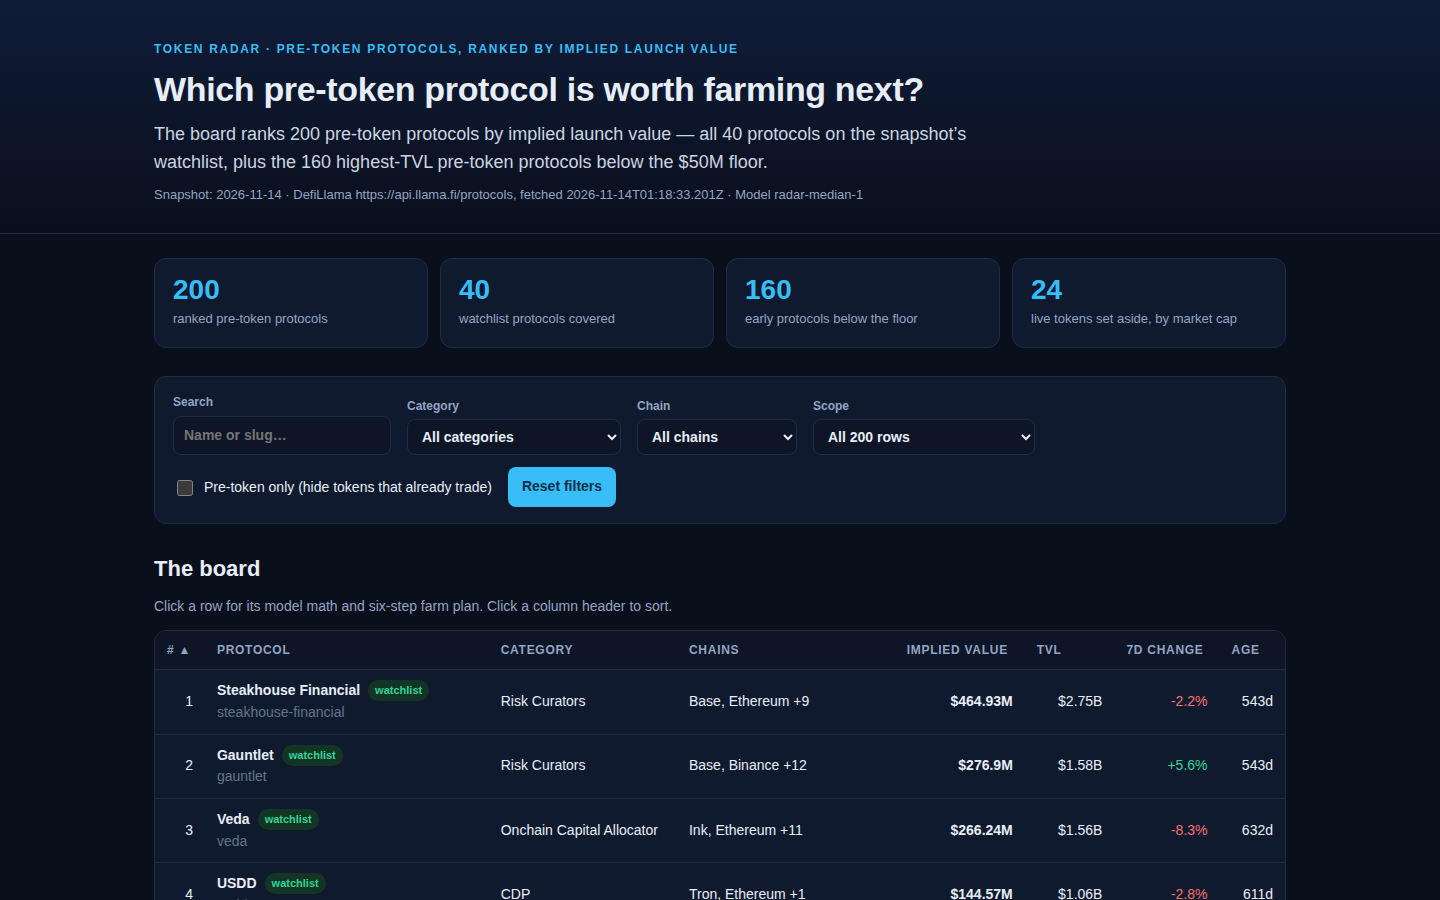
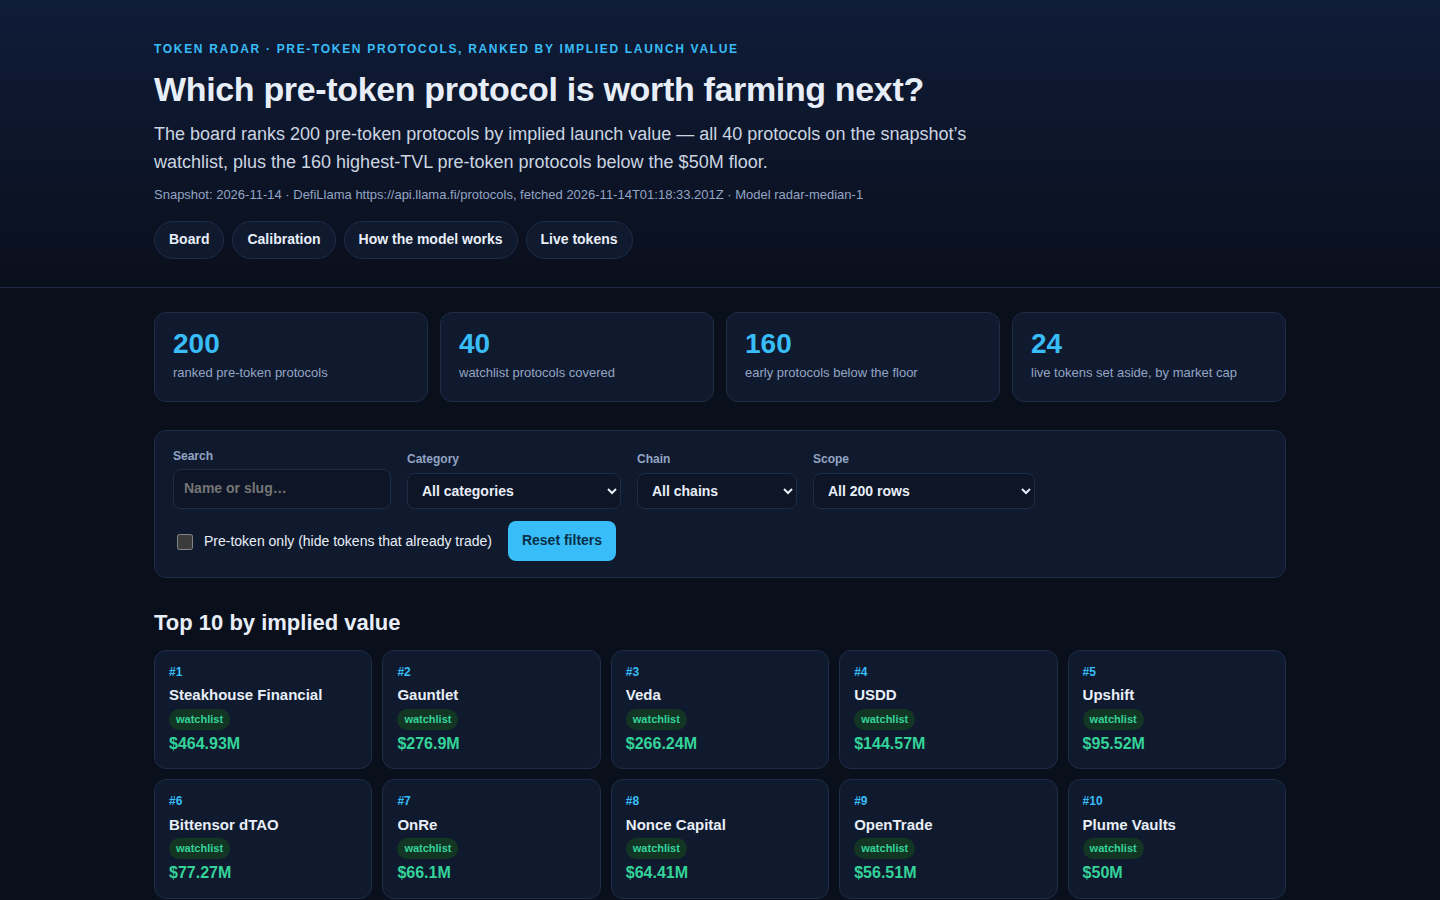
v2: calibration view, 8-step farm plans, Top 10 summary

diff --git a/lib/model.ts b/lib/model.ts
@@ -84,6 +84,29 @@ export interface CategoryMultiple {
   fallback: boolean;
 }
 
+/** One live-token protocol behind a multiple: its own mcap/TVL, shown rounded to 4 decimals. */
+export interface CalibrationComp {
+  slug: string;
+  name: string;
+  mcap_usd: number;
+  tvl_usd: number;
+  ratio: number;
+}
+
+/**
+ * One category's calibration: every live-token comp the category's multiple comes from, the
+ * multiple itself, and whether the category fell back to the global median (fewer than 3 comps).
+ * The global entry (category null) carries no comp list — its 128 comps are the ones listed under
+ * their own categories above it — only its count and its median.
+ */
+export interface CategoryCalibration {
+  category: string | null;
+  multiple: number;
+  comps: number;
+  fallback: boolean;
+  entries: CalibrationComp[];
+}
+
 /** One row of board.json: a ranked pre-token protocol with its farm plan. */
 export interface BoardRow {
   rank: number;
@@ -134,6 +157,7 @@ export interface RadarData {
   early_size: number;
   live_size: number;
   multiples: CategoryMultiple[];
+  calibration: CategoryCalibration[];
   rows: BoardRow[];
   live: LiveRow[];
 }
@@ -208,6 +232,45 @@ function multipleFor(category: string | null, multiples: { byCategory: Map<strin
   const hit = multiples.byCategory.get(category ?? '');
   if (hit !== undefined) return hit;
   return { category, multiple: multiples.global.multiple, comps: multiples.global.comps, fallback: true };
+}
+
+/**
+ * The calibration table: for every category that carries at least one live-token protocol, the
+ * comps themselves (each comp's own mcap/TVL, highest first, ties by slug), the median multiple
+ * the model uses for that category, and whether the category fell back to the global median.
+ * Categories sort by name, the global entry comes last with an empty comp list — its comps are the
+ * ones listed under their own categories. Ratios are shown rounded to 4 decimals; each median is
+ * computed from the unrounded ratios, then rounded to 4 decimals.
+ */
+export function calibrationRows(snapshot: Snapshot, model: ModelConstants = MODEL): CategoryCalibration[] {
+  const multiples = categoryMultiples(snapshot, model);
+  const byKey = new Map<string, CalibrationComp[]>();
+  for (const p of snapshot.protocols) {
+    if (p.mcap_usd === null || p.mcap_usd <= 0 || p.tvl_usd <= 0) continue;
+    const key = p.category ?? '';
+    const list = byKey.get(key) ?? [];
+    list.push({ slug: p.slug, name: p.name, mcap_usd: p.mcap_usd, tvl_usd: p.tvl_usd, ratio: round4(p.mcap_usd / p.tvl_usd) });
+    byKey.set(key, list);
+  }
+  const rows: CategoryCalibration[] = [];
+  for (const [key, entries] of byKey) {
+    entries.sort((a, b) => b.ratio - a.ratio || (a.slug < b.slug ? -1 : a.slug > b.slug ? 1 : 0));
+    const hit = multiples.byCategory.get(key);
+    rows.push({
+      category: key === '' ? null : key,
+      multiple: hit !== undefined ? hit.multiple : multiples.global.multiple,
+      comps: entries.length,
+      fallback: hit === undefined,
+      entries,
+    });
+  }
+  rows.sort((a, b) => {
+    const ka = a.category ?? '';
+    const kb = b.category ?? '';
+    return ka < kb ? -1 : ka > kb ? 1 : 0;
+  });
+  rows.push({ category: null, multiple: multiples.global.multiple, comps: multiples.global.comps, fallback: false, entries: [] });
+  return rows;
 }
 
 /** The implied value and its breakdown for one protocol. */
@@ -313,10 +376,56 @@ function actionFor(p: SnapshotProtocol, capital: number, chain: string): string 
   return `Deposit $${capital} of USDC into ${name} on ${chain} and keep the position open so it counts as usage.`;
 }
 
+/** The category's main risk, in words a farmer can act on: what can go wrong before depositing. */
+function riskFor(p: SnapshotProtocol): string {
+  const c = (p.category ?? '').toLowerCase();
+  if (c.includes('lend') || c.includes('cdp') || c.includes('collateral')) {
+    return `a price drop can liquidate the collateral, and borrow rates can spike while you hold. Keep the loan-to-value well below the limit and check the health factor every week.`;
+  }
+  if (c.includes('dex') || c.includes('yield') || c.includes('leveraged farm') || c.includes('liquidity manager')) {
+    return `impermanent loss can eat the fees you earn, and a thin pool can move against you when you exit. Start with a small position and check the pool's depth before you add more.`;
+  }
+  if (c.includes('bridge')) {
+    return `a bridge bug or a stuck transaction can strand funds on the wrong chain for days. Bridge a small test amount first and only send more once it arrives.`;
+  }
+  if (c.includes('stak') || c.includes('restak')) {
+    return `slashing or a validator failure can cut the stake, and unstaking can take days or weeks. Only stake funds you do not need soon, and note the unstaking delay before you commit.`;
+  }
+  if (c.includes('perpetual') || c.includes('derivative') || c.includes('options')) {
+    return `leverage can liquidate a small position in one sharp move, and funding fees add up while you hold. Keep the position small and hedged, and close it the same week.`;
+  }
+  if (c.includes('prediction')) {
+    return `a market can resolve against you and the stake is lost in full. Bet only the amount you planned to farm with, and never chase a loss with a second market.`;
+  }
+  if (c.includes('curator') || c.includes('allocator')) {
+    return `the vault's strategy can underperform or change, and the manager's fee comes out of your return. Read the vault's strategy and fee note before you deposit.`;
+  }
+  if (c.includes('stable')) {
+    return `a stable asset can lose its peg, and its backing can be thinner than advertised. Check what backs it and how redemptions work before you hold a large balance.`;
+  }
+  if (c.includes('rwa')) {
+    return `the issuer or the underlying asset can default, and redemptions can be slow or gated. Read the issuer's terms and keep the position small.`;
+  }
+  if (c.includes('insurance')) {
+    return `a claim can be denied if the event falls outside the policy wording. Read what the cover actually pays for before you buy it.`;
+  }
+  if (c.includes('index')) {
+    return `the index can rebalance into weaker assets, and the underlying tokens carry their own risks. Check what the index holds before you buy it.`;
+  }
+  if (c.includes('launchpad')) {
+    return `a sale can fill only partly, and the token can fall below its sale price on listing. Only stake what you can afford to hold through the listing.`;
+  }
+  if (c.includes('farm')) {
+    return `rewards can be cut without warning and the farm's token can fall while you hold. Check the reward rate weekly and exit if it drops.`;
+  }
+  return `a smart-contract bug can drain the protocol, and its points rules can change without warning. Start small, use a fresh wallet, and never deposit money you need soon.`;
+}
+
 /**
- * A protocol's farm plan: six steps, each an action with its cost and time stated. The plan is
+ * A protocol's farm plan: eight steps, each an action with its cost and time stated. The plan is
  * derived from the protocol's own record (category, chains, TVL, age), never from a hand-written
- * list of names.
+ * list of names. Step 2 names the category's main risk before any capital goes in; step 8 is the
+ * weekly review that decides when to unwind and rotate.
  */
 export function farmSteps(p: SnapshotProtocol, age: number | null): string[] {
   const chain = chainOf(p);
@@ -325,11 +434,13 @@ export function farmSteps(p: SnapshotProtocol, age: number | null): string[] {
   const gas = capital >= 150 ? 8 : 4;
   const steps = [
     `Set up a fresh wallet that holds only the funds you plan to farm, and write its seed phrase on paper and store it offline. Cost: under $3 of gas for the first transaction. Time: 5 minutes.`,
+    `Before you deposit, know what can go wrong: ${riskFor(p)} Cost: nothing to read, but set a loss limit before you deposit. Time: 10 minutes.`,
     `${actionFor(p, capital, chain)} Cost: $${capital} of capital and about $${gas} of gas. Time: 15 minutes to set up.`,
     `Make one qualifying action each week, such as a deposit, a borrow, a swap or a vote, so the wallet stays active. Cost: about $2 of gas a week. Time: 10 minutes a week.`,
     `Hold the position for at least ${hold} days so the activity is counted in more than one snapshot. Cost: the $${capital} stays in the position. Time: ${hold} days.`,
     `Before you withdraw anything, open the protocol's own points or rewards page from the link it publishes and check your balance there. Cost: no fee to check, and never pay to claim. Time: 10 minutes.`,
     `Write the wallet address, the dates and every transaction hash in a farm log so you can repeat the position or unwind it later. Cost: nothing but the log. Time: 5 minutes.`,
+    `Check the position once a week: open the points page and your wallet, confirm the balance is still growing, and look at the protocol's TVL. If TVL has fallen by half, the points page stops updating, or the rules change, unwind the position and rotate the capital to the next protocol on this board. Cost: gas to exit when you rotate. Time: 10 minutes a week.`,
   ];
   return steps.map((s) => (s.length > 600 ? `${s.slice(0, 596)}...` : s));
 }
@@ -421,6 +532,7 @@ export function buildRadar(snapshot: Snapshot, model: ModelConstants = MODEL): {
     early_size: early,
     live_size: live.length,
     multiples: multiplesList,
+    calibration: calibrationRows(snapshot, model),
     rows: board,
     live,
   };

diff --git a/dashboard/app.js b/dashboard/app.js
@@ -54,12 +54,67 @@
     '0.05–2.00. The growth multiplier is <code>1 + clamped 7-day TVL change ÷ 100 × 0.5</code> (change clamped to ' +
     '−60%…+120%; unreported counts as 0). The maturity multiplier is <code>0.6 + min(age, 1095) ÷ 1095 × 0.4</code> ' +
     '(unknown listing date counts as 365 days). Nothing is hardcoded by name: the same formula scores every row, ' +
-    'and every multiple below comes from this snapshot\u2019s own live-token comps.';
+    'and every multiple below comes from this snapshot\u2019s own live-token comps. ' +
+    '<a href="#calibration">See every live comp behind each multiple in the calibration view</a>.';
   $('multiple-rows').innerHTML = D.multiples.map(function (m) {
     var label = m.category === null ? 'All categories (global fallback)' : m.category;
     var source = m.fallback ? 'global median — fewer than 3 comps in this category' : 'median of ' + m.comps + ' live comps';
     return '<tr><td>' + esc(label) + '</td><td class="num">' + m.multiple.toFixed(4) + '</td><td class="num">' + m.comps + '</td><td>' + esc(source) + '</td></tr>';
   }).join('');
+
+  // ---- worked example: the #1 row's exact arithmetic, and how many of the top 10 use the fallback
+  (function () {
+    var top = rows[0];
+    if (!top) return;
+    var m = top.model;
+    var fb = rows.slice(0, 10).filter(function (r) { return r.model.fallback; }).length;
+    var multSrc = m.fallback
+      ? 'the global median across all ' + m.category_comps + ' live-token protocols, because ' + (top.category || 'this category') + ' has fewer than 3 live comps of its own'
+      : 'the median of ' + m.category_comps + ' live-token comps in ' + (top.category || 'this category');
+    $('model-example').innerHTML =
+      '<b>Worked example — #' + top.rank + ' ' + esc(top.name) + ':</b> ' + full(top.tvl_usd) + ' TVL × <b>' +
+      m.category_multiple.toFixed(4) + '</b> (' + esc(multSrc) + ') × <b>' + m.growth_multiplier.toFixed(4) +
+      '</b> growth × <b>' + m.maturity_multiplier.toFixed(4) + '</b> maturity = <b>' + full(top.implied_value_usd) +
+      '</b>. Of the top 10, <b>' + fb + '</b> use the global fallback — their categories have fewer than 3 live-token ' +
+      'comps in this snapshot, so the board ranks them mostly on TVL. The calibration view shows the comps behind ' +
+      'each of those calls.';
+  })();
+
+  // ---- top 10 strip ---------------------------------------------------------------
+  $('top10').innerHTML = rows.slice(0, 10).map(function (r) {
+    var badge = r.watchlist ? '<span class="badge">watchlist</span>' : '<span class="badge early">early</span>';
+    return '<a class="top10-card" href="#detail=' + esc(r.slug) + '">' +
+      '<span class="top10-rank">#' + r.rank + '</span>' +
+      '<span class="top10-name">' + esc(r.name) + '</span>' + badge +
+      '<span class="top10-value">' + money(r.implied_value_usd) + '</span></a>';
+  }).join('');
+
+  // ---- calibration view --------------------------------------------------------------
+  (function () {
+    var cal = D.calibration || [];
+    var global = cal.length > 0 ? cal[cal.length - 1] : null;
+    var html = cal.slice(0, cal.length - 1).map(function (c) {
+      var label = c.category === null ? 'No category' : c.category;
+      var head = c.fallback
+        ? label + ' — only ' + c.comps + ' live comp' + (c.comps === 1 ? '' : 's') + ', too few for its own median, so the global median ' + global.multiple.toFixed(4) + ' applies'
+        : label + ' — multiple ' + c.multiple.toFixed(4) + ', median of ' + c.comps + ' live comps';
+      var body = c.entries.map(function (e) {
+        return '<tr><td><b>' + esc(e.name) + '</b><br><span class="dim">' + esc(e.slug) + '</span></td>' +
+          '<td class="num">' + money(e.mcap_usd) + '</td><td class="num">' + money(e.tvl_usd) +
+          '</td><td class="num"><b>' + e.ratio.toFixed(4) + '</b></td></tr>';
+      }).join('');
+      return '<h3>' + esc(head) + '</h3><div class="table-wrap"><table><thead><tr>' +
+        '<th>Live-token comp</th><th>Market cap</th><th>TVL</th><th>mcap / TVL</th></tr></thead><tbody>' + body + '</tbody></table></div>';
+    }).join('');
+    if (global) {
+      html += '<h3>All categories (global fallback) — median ' + global.multiple.toFixed(4) + ' across ' + global.comps +
+        ' live-token protocols in ' + (cal.length - 1) + ' categories</h3>' +
+        '<p class="hint">The global median is computed across every live-token protocol listed above, one per category. ' +
+        'It is the multiple for every category with fewer than 3 live comps, and for any protocol whose category ' +
+        'records no live token at all.</p>';
+    }
+    $('calibration-rows').innerHTML = html;
+  })();
 
   // ---- filter controls ----------------------------------------------------------
   function uniqSorted(values) {
@@ -157,7 +212,8 @@
       m.growth_multiplier.toFixed(4) + '</b> growth × <b>' + m.maturity_multiplier.toFixed(4) +
       '</b> maturity = <b class="result">' + full(r.implied_value_usd) + '</b></p>' +
       '<p class="hint">' + esc(multNote) + ' ' + esc(growthNote) + ' Maturity: 0.6 + min(' +
-      (m.age_days === null ? '365 (unknown listing date)' : m.age_days) + ', 1095) ÷ 1095 × 0.4 = ' + m.maturity_multiplier.toFixed(4) + '.</p>' +
+      (m.age_days === null ? '365 (unknown listing date)' : m.age_days) + ', 1095) ÷ 1095 × 0.4 = ' + m.maturity_multiplier.toFixed(4) + '. ' +
+      '<a href="#calibration">See every live comp behind this multiple</a>.</p>' +
       '<h3>How to farm it</h3>' +
       '<ol class="farm">' + r.farm_steps.map(function (s) { return '<li>' + esc(s) + '</li>'; }).join('') + '</ol>' +
       '<p style="margin-top:16px"><a href="#board">Back to the board</a></p>';
@@ -174,25 +230,38 @@
   }).join('');
 
   // ---- hash routing ------------------------------------------------------------------
+  function showView(view) {
+    var board = view !== 'calibration';
+    Array.prototype.forEach.call(document.querySelectorAll('.board-view'), function (el) { el.style.display = board ? '' : 'none'; });
+    Array.prototype.forEach.call(document.querySelectorAll('.cal-view'), function (el) { el.hidden = board; });
+  }
   function applyHash() {
     var h = location.hash || '#board';
     detailSlug = null;
     if (h.indexOf('#detail=') === 0) {
       detailSlug = decodeURIComponent(h.slice(8));
       $('filter-note').hidden = true;
+      showView('board');
     } else if (h === '#filtered') {
       state.cat = 'Lending';
       $('cat').value = 'Lending';
       var n = filtered().length;
       $('filter-note').hidden = false;
       $('filter-note').textContent = 'Filtered view: category = Lending. ' + n + ' rows match. Change the filters above to explore the rest of the board.';
+      showView('board');
+    } else if (h === '#calibration') {
+      $('filter-note').hidden = true;
+      showView('calibration');
     } else {
       $('filter-note').hidden = true;
+      showView('board');
     }
     renderBoard();
     renderDetail();
     $('live-section').style.display = state.pretoken ? 'none' : '';
-    window.scrollTo(0, 0);
+    if (h === '#model') $('model').scrollIntoView();
+    else if (h === '#live-section') $('live-section').scrollIntoView();
+    else window.scrollTo(0, 0);
   }
 
   // ---- events --------------------------------------------------------------------------

diff --git a/dashboard/index.html b/dashboard/index.html
@@ -13,12 +13,18 @@
     <h1>Which pre-token protocol is worth farming next?</h1>
     <p class="lede" id="lede"></p>
     <p class="meta" id="meta"></p>
+    <nav class="topnav" aria-label="Views">
+      <a href="#board">Board</a>
+      <a href="#calibration">Calibration</a>
+      <a href="#model">How the model works</a>
+      <a href="#live-section">Live tokens</a>
+    </nav>
   </div>
 </header>
 <main class="wrap">
   <section class="stats" id="stats" aria-label="Board summary"></section>
 
-  <section class="controls" aria-label="Filters">
+  <section class="controls board-view" aria-label="Filters">
     <label>Search <input id="q" type="search" placeholder="Name or slug…" autocomplete="off"></label>
     <label>Category <select id="cat"><option value="">All categories</option></select></label>
     <label>Chain <select id="chain"><option value="">All chains</option></select></label>
@@ -32,13 +38,15 @@
     <label class="check"><input id="pretoken" type="checkbox"> Pre-token only (hide tokens that already trade)</label>
     <button id="reset" type="button">Reset filters</button>
   </section>
-  <p class="filter-note" id="filter-note" hidden></p>
+  <p class="filter-note board-view" id="filter-note" hidden></p>
 
   <section id="detail" hidden></section>
 
-  <section id="board-section">
+  <section id="board-section" class="board-view">
+    <h2>Top 10 by implied value</h2>
+    <div class="top10" id="top10" aria-label="Top 10 protocols"></div>
     <h2>The board</h2>
-    <p class="hint">Click a row for its model math and six-step farm plan. Click a column header to sort.</p>
+    <p class="hint">Click a row for its model math and eight-step farm plan. Click a column header to sort.</p>
     <div class="table-wrap">
       <table id="board-table">
         <thead><tr>
@@ -57,9 +65,16 @@
     <p id="count" class="count"></p>
   </section>
 
+  <section id="calibration-section" class="cal-view" hidden>
+    <h2>Calibration — where every multiple comes from</h2>
+    <p class="hint">Each category's multiple is the median market-cap-to-TVL ratio of the snapshot's own live-token protocols in that category. A category with fewer than 3 live comps has no median of its own, so it uses the global median across all live-token protocols instead — those rows are marked as fallback. Ratios are shown rounded to 4 decimals; each median is computed from the unrounded ratios, then rounded to 4 decimals. <a href="#board">Back to the board</a></p>
+    <div id="calibration-rows" aria-label="Calibration by category"></div>
+  </section>
+
   <section id="model">
     <h2>How the model works</h2>
     <p id="model-text"></p>
+    <p id="model-example"></p>
     <div class="table-wrap">
       <table id="multiples">
         <thead><tr><th>Category</th><th>Multiple (mcap / TVL)</th><th>Live comps</th><th>Source</th></tr></thead>

diff --git a/dashboard/app.css b/dashboard/app.css
@@ -28,6 +28,22 @@ body {
 h1 { margin: 0 0 12px; font-size: 34px; line-height: 1.2; letter-spacing: -.01em; }
 .lede { margin: 0 0 8px; font-size: 18px; color: #cbd5e1; max-width: 860px; }
 .meta { margin: 0; font-size: 13px; color: var(--muted); }
+.topnav { margin-top: 16px; display: flex; gap: 8px; flex-wrap: wrap; }
+.topnav a { color: var(--ink); text-decoration: none; font-size: 14px; font-weight: 600; background: var(--panel); border: 1px solid var(--line); border-radius: 999px; padding: 7px 14px; }
+.topnav a:hover { color: var(--accent); border-color: var(--accent); }
+#model-example { background: var(--panel); border: 1px solid var(--line); border-radius: var(--radius); padding: 14px 16px; font-size: 15px; }
+#model-example b { color: var(--accent); font-variant-numeric: tabular-nums; }
+.top10 { display: grid; grid-template-columns: repeat(5, 1fr); gap: 10px; margin-bottom: 24px; }
+.top10-card { display: grid; gap: 2px; background: var(--panel); border: 1px solid var(--line); border-radius: var(--radius); padding: 12px 14px; color: var(--ink); text-decoration: none; }
+.top10-card:hover { border-color: var(--accent); }
+.top10-rank { font-size: 12px; font-weight: 700; color: var(--accent); }
+.top10-name { font-size: 15px; font-weight: 700; overflow: hidden; text-overflow: ellipsis; white-space: nowrap; }
+.top10-value { font-size: 16px; font-weight: 700; color: var(--good); font-variant-numeric: tabular-nums; }
+.top10-card .badge { margin-left: 0; justify-self: start; }
+#calibration-section h3 { font-size: 17px; margin: 22px 0 10px; }
+#calibration-section .table-wrap { margin-bottom: 4px; }
+#calibration-section table td { white-space: normal; }
+#calibration-section a, #model a, #detail a { color: var(--accent); }
 main { padding-bottom: 48px; }
 section { margin-top: 28px; }
 h2 { font-size: 22px; margin: 0 0 10px; }
@@ -81,4 +97,5 @@ footer p { margin: 0; }
   h1 { font-size: 26px; }
   .stats { grid-template-columns: repeat(2, 1fr); }
   .kv { grid-template-columns: repeat(2, 1fr); }
+  .top10 { grid-template-columns: repeat(2, 1fr); }
 }

diff --git a/main.ts b/main.ts
@@ -74,7 +74,7 @@ const dashboardFiles = copyFiles(join(here, 'dashboard'), join(out, 'dashboard')
 if (dashboardFiles.length === 0) fail('dashboard/ is empty: the page is what the judge reads');
 const shots = copyFiles(join(here, 'screenshots'), join(out, 'screenshots'));
 if (shots.length < 3) {
-  fail(`screenshots/ holds ${shots.length} image${shots.length === 1 ? '' : 's'}: hand in 3, the board, a detail view and a filtered view`);
+  fail(`screenshots/ holds ${shots.length} image${shots.length === 1 ? '' : 's'}: hand in 3, the board, a detail view and a calibration view`);
 }
 for (const name of shots) {
   if (!IMAGE_NAME.test(name)) fail(`screenshots/${name}: a name is letters, digits and . _ -, 1 to 128 characters`);

diff --git a/README.md b/README.md
@@ -4,7 +4,7 @@
 [![rank](https://make.fun/badge/token-radar-01/2060TZH/token-radar-01/rank.svg)](https://make.fun/bounty/token-radar-01/leaderboard?utm_source=github&utm_medium=readme&utm_campaign=token-radar-01)
 [![reward](https://make.fun/badge/token-radar-01/2060TZH/token-radar-01/reward.svg)](https://make.fun/bounty/token-radar-01?utm_source=github&utm_medium=readme&utm_campaign=token-radar-01)
 
-Token Radar ranks the protocols that still record no token by what their launch would be worth. Each protocol's implied value comes from the snapshot's own figures — its TVL times the median market-cap-to-TVL multiple of the snapshot's live-token protocols in its category, adjusted for seven-day growth and for how long it has run with no token — and each row carries a six-step farm plan with its cost and time. The board covers the full 40-protocol watchlist plus the 160 highest-TVL pre-token protocols below the $50M floor, and the dashboard keeps the protocols whose token already trades in a separate live-token view.
+Token Radar ranks the protocols that still record no token by what their launch would be worth. Each protocol's implied value comes from the snapshot's own figures — its TVL times the median market-cap-to-TVL multiple of the snapshot's live-token protocols in its category, adjusted for seven-day growth and for how long it has run with no token — and each row carries an eight-step farm plan with its cost and time, including the category's main risk and a weekly review. The board covers the full 40-protocol watchlist plus the 160 highest-TVL pre-token protocols below the $50M floor, the dashboard keeps the protocols whose token already trades in a separate live-token view, and a calibration view lists every live-token comp behind each multiple so any multiple can be checked against the snapshot.
 
 ## Run it
 
